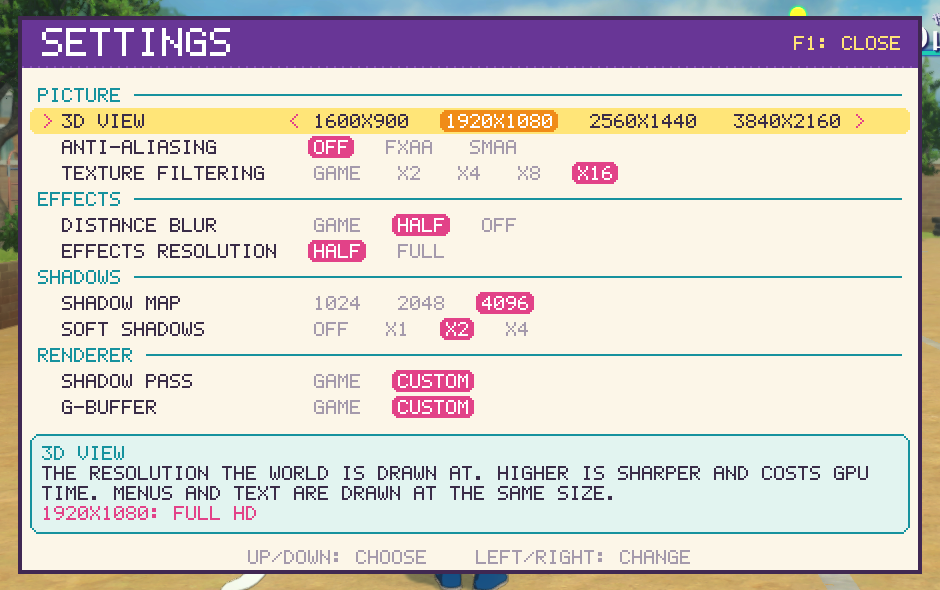
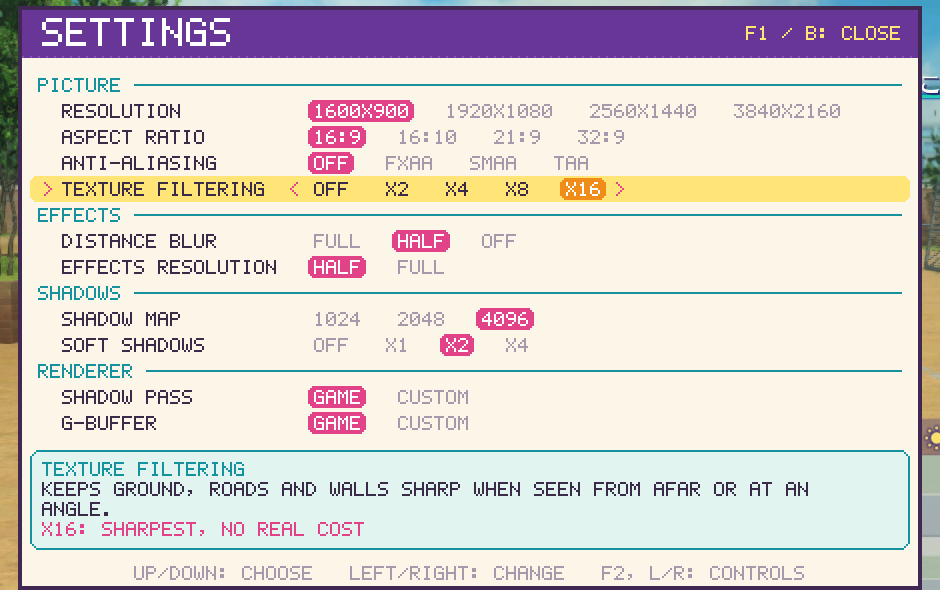
README: settings table with the panel's names, aspect ratio and TAA; new panel screenshot; 21:9 screenshot
Claude-Session: https://claude.ai/code/session_0166b96iYqMeuVB3i3DFv3RQ

diff --git a/README.md b/README.md
@@ -54,7 +54,8 @@ Switch emulators already run *Yo-kai Watch 4++* at full speed on a good PC. This
 An emulator can't do most of this. It imitates the console and plays the game's GPU commands as they are, so the
 game still decides its shadow quality, its 16:9 UI, its 30 frames/s and its effects. Here the game's renderer is
 being replaced with our own, so those become ours to change: higher resolution, sharper textures, bigger and soft
-shadows and anti-aliasing that leaves the UI sharp are already in; ultrawide and higher frame rates are next.
+shadows, anti-aliasing that leaves the UI sharp (TAA included) and ultrawide are already in; higher frame rates are
+next.
 
 A town street, same spot: the game's shadows (1024 map, no PCSS) against ours (4096 map, PCSS ×2). The
 characters' shadows keep their shape, and the tree shade on the pavement is soft:
@@ -120,17 +121,23 @@ for the next start. Settings are only in the panel; the other function keys are 
 
 | Setting | What it does |
 |---|---|
-| 3D view | 1600×900 (the game's), 1920×1080, 2560×1440 or 3840×2160; the UI is drawn at the same size |
-| Anti-aliasing | Off (default), FXAA or SMAA, applied to the 3D scene before the UI is drawn, so edges are smoothed and text stays sharp |
-| Texture filtering | The game's, or anisotropic ×2 to ×16: distant and slanted ground, roads and walls stay sharp. Default ×16 |
-| Distance blur | The game's, half or off: the game blurs everything far away. Default half |
-| Effects resolution | Half (the game's) or full: the shadow mask, lamp lights and ambient occlusion at the 3D view's size, for sharper shadow edges. Costs ~2 ms of GPU at 1600×900 |
-| Shadow map | 1024 (the game's), 2048 or 4096: sharper shadow edges. Default 4096 |
-| Soft shadows (PCSS) | Off, ×1, ×2, ×4. Default ×2 |
+| Resolution | 1600×900 (the Switch's), 1920×1080, 2560×1440 or 3840×2160; the UI is drawn at the same size |
+| Aspect ratio | 16:9 (the Switch's), 16:10, 21:9 or 32:9: the world shows more at the sides, the UI stays 16:9 in the middle |
+| Anti-aliasing | Off (default), FXAA, SMAA or TAA, applied to the 3D scene before the UI is drawn, so text stays sharp. TAA also steadies thin things that shimmer: fences, nets, leaves |
+| Texture filtering | Off (the Switch's) or anisotropic ×2 to ×16: distant and slanted ground, roads and walls stay sharp. Default ×16 |
+| Distance blur | Full (the Switch's), half or off: the game blurs everything far away. Default half |
+| Effects resolution | Half (the Switch's) or full: the shadow mask, lamp lights and ambient occlusion at the 3D view's size, for sharper shadow edges. Costs ~2 ms of GPU at 1600×900 |
+| Shadow map | 1024 (the Switch's), 2048 or 4096: sharper shadow edges. Default 4096 |
+| Soft shadows (PCSS) | Off (the Switch's), ×1, ×2, ×4. Default ×2 |
 | Shadow pass | The game's or our custom renderer draws the shadow casters; the same picture, ours slightly faster |
 | G-buffer | The game's or our custom renderer draws the world's surfaces; the same picture |
 
 F3 shows a performance HUD in the window's corner: frame time, CPU and GPU cost and memory.
+
+**Aspect ratio**: 21:9, the schoolyard. The world goes on at the sides; the minimap and button hints stay where
+they are on the Switch.
+
+![21:9 ultrawide: a wider schoolyard with the UI in the middle](docs/screenshots/23-ultrawide-21-9.jpg)
 
 **Shadow map size**: a bigger shadow map gives sharper, more detailed shadow edges, most visibly on shadows far from
 the camera. The bamboo forest, PCSS off:
@@ -151,8 +158,8 @@ the camera. The bamboo forest, PCSS off:
 |---|---|
 | ![PCSS off: hard, speckled leaf shadows](docs/screenshots/16-pcss-off.jpg) | ![PCSS x2](docs/screenshots/18-pcss-x2.jpg) |
 
-The game starts at the game's 1600×900 with a 4096 shadow map, PCSS ×2, ×16 texture filtering, half distance blur,
-half-size effects and no anti-aliasing. For the game's original look, set every setting to its first choice in the
+The game starts at the Switch's 1600×900 and 16:9 with a 4096 shadow map, PCSS ×2, ×16 texture filtering, half
+distance blur, half-size effects and no anti-aliasing. For the game's original look, set every setting to its first choice in the
 panel.
 
 ## Screenshots
